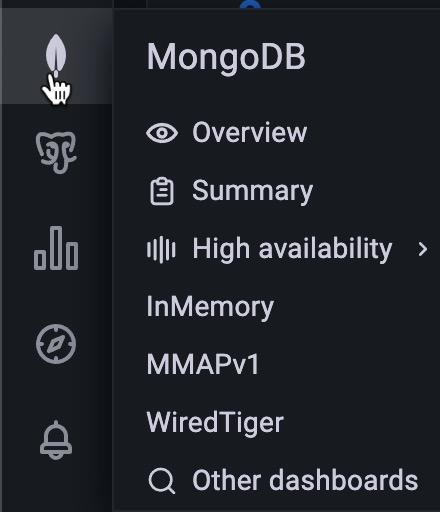
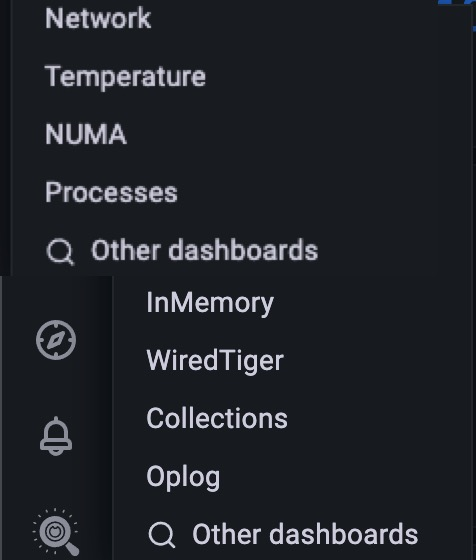
feedback from Roma

diff --git a/docs/release-notes/2.43.0.md b/docs/release-notes/2.43.0.md
@@ -12,29 +12,31 @@ It enables you to observe the health of your database systems, explore new patte
 
 This release introduces redesigned MongoDB dashboards that have reached General Availability (GA) status, along with an improved navigation structure for MongoDB monitoring in PMM...
 
-### Redesigned MongoDB dashboards now generally available with improved navigation
+### MongoDB dashboard improvements and GA of recent experimental dashboard
 
+We're excited to announce significant enhancements to MongoDB monitoring in PMM, focusing on redesigned dashboards, streamlined navigation, and general availability of previously experimental dashboards.
 
-This update includes significant improvements to MongoDB monitoring focused on two key areas: the general availability (GA) of redesigned dashboards and a streamlined navigation structure for easier access to important dashboards.
+#### Redesigned Dashboards
 
-#### Redesigned dashboards
+We've overhauled two critical MongoDB dashboards to provide more value, especially for complex, multi-environment setups:
 
-The following MongoDB dashboards, previously in Experimental status, have been redesigned and are now generally available:
+- **Replica Set Summary** 
+- **Sharded Cluster Summary** (formerly Cluster Summary)
 
-- **MongoDB Instance Summary**
+These dashboards now offer enhanced usability, improved insights, and optimized visualizations for complex environments. They focus on highlighting potential database issues for faster resolution and provide centralized, actionable insights without clutter.
+
+#### General Availability of Experimental dashboards
+
+The redesigned dashboards, along with the following previously experimental dashboards, are now generally available:
+
+- **MongoDB Oplog Details**
+- **MongoDB Collection Overview**
 - **Replica Set Summary**
 - **Sharded Cluster Summary** (formerly Cluster Summary)
-  
-These dashboards include enhancements that make the dashboards more  valuable for complex, multi-environment setups:
 
-- **Enhanced usability and insights**: Intuitive designs with improved filtering and comprehensive metrics
-- **Focus on database issues**: Improved visualizations, highlighting potential problems for faster resolution.
-- **Optimization for complex environments**: Easier monitoring across multiple MongoDB instances, replica sets, and sharded clusters.
-- **Centralized, actionable insights**: Key metrics and visualizations providing critical information without clutter.
+#### Accessing the new dashboards
 
-##### Accessing the new dashboards
-
-The updated dashboards are now available in the **MongoDB** and **Dashboards** sections in the main menu, replacing the previous versions as the default dashboards for MongoDB monitoring.
+You can find the updated dashboards in the **MongoDB** and **Dashboards** sections in the main menu, as they now replace the previous versions as the default dashboards for MongoDB monitoring.
 
 The old dashboards have been moved to the **Experimental** folder and renamed with **(Old)** appended to their names. These older versions will be removed in future releases.
 
@@ -43,10 +45,10 @@ The old dashboards have been moved to the **Experimental** folder and renamed wi
 To complement the dashboard improvements, we've also restructured the MongoDB section on the main menu for better navigation and accessibility:
 
 - Reorganized menu for a more intuitive navigation, prioritizing the three updated GA dashboards above.
-- The previously experimental **MongoDB Oplog Details** and **MongoDB Collection Overview** dashboards have been moved out of the **Experimental** folder and are now included in the main menu as generally available (GA) dashboards.
 - Decluttered view by moving older dashboards to the **Experimental** folder or removing them from the menu.
+- Added **MongoDB Oplog Details**, **MongoDB Collection Overview**, and **MongoDB Instance Summary** to the main menu
   
-![New Mongo menu](../images/new_Mongo_menu.jpg)
+![New MongoDB menu structure](../images/new_Mongo_menu.jpg)
 
 We encourage you to transition to the new dashboards to take advantage of their improved monitoring capabilities and to share your feedback in the PMM forum.
 
